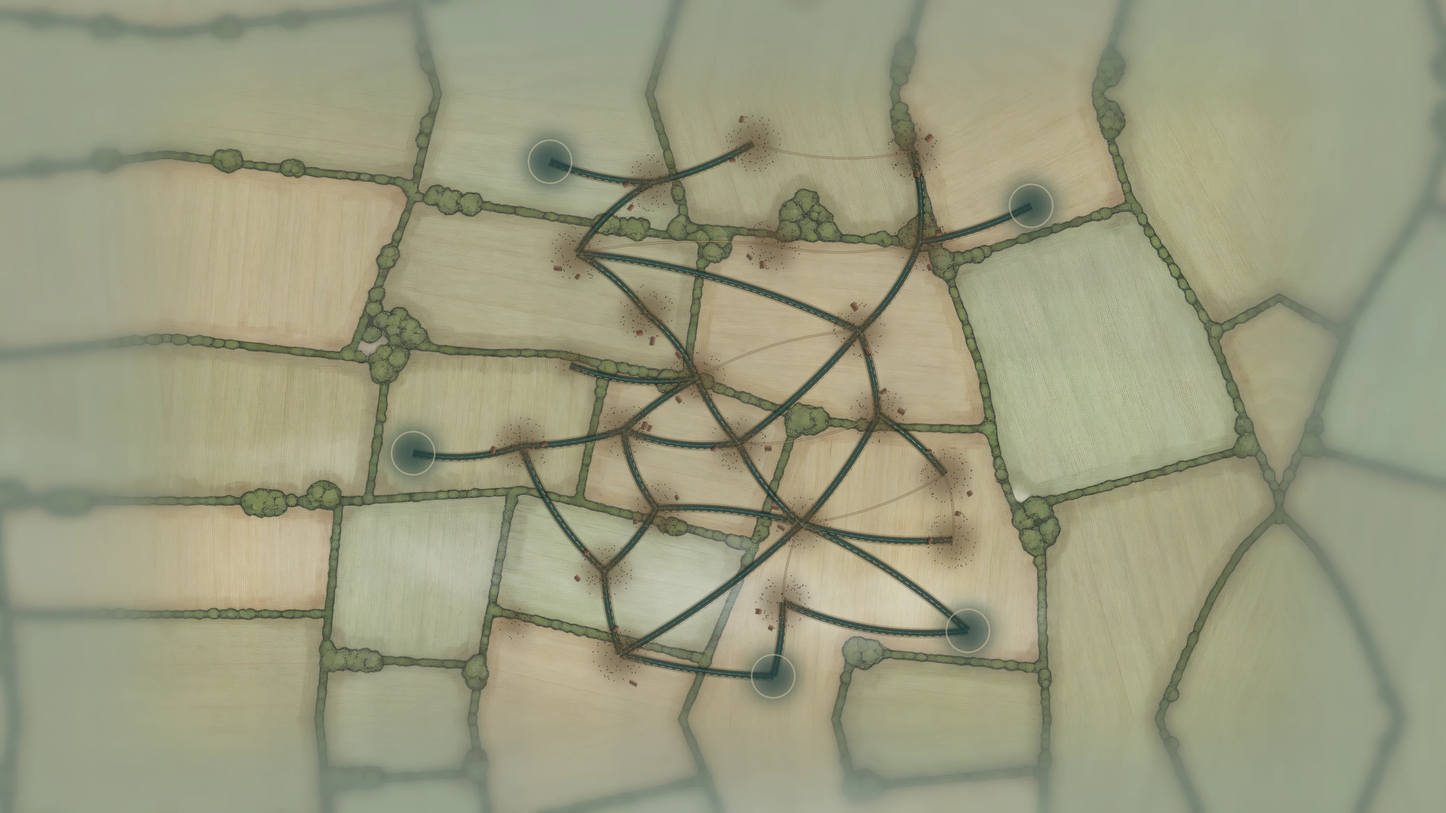
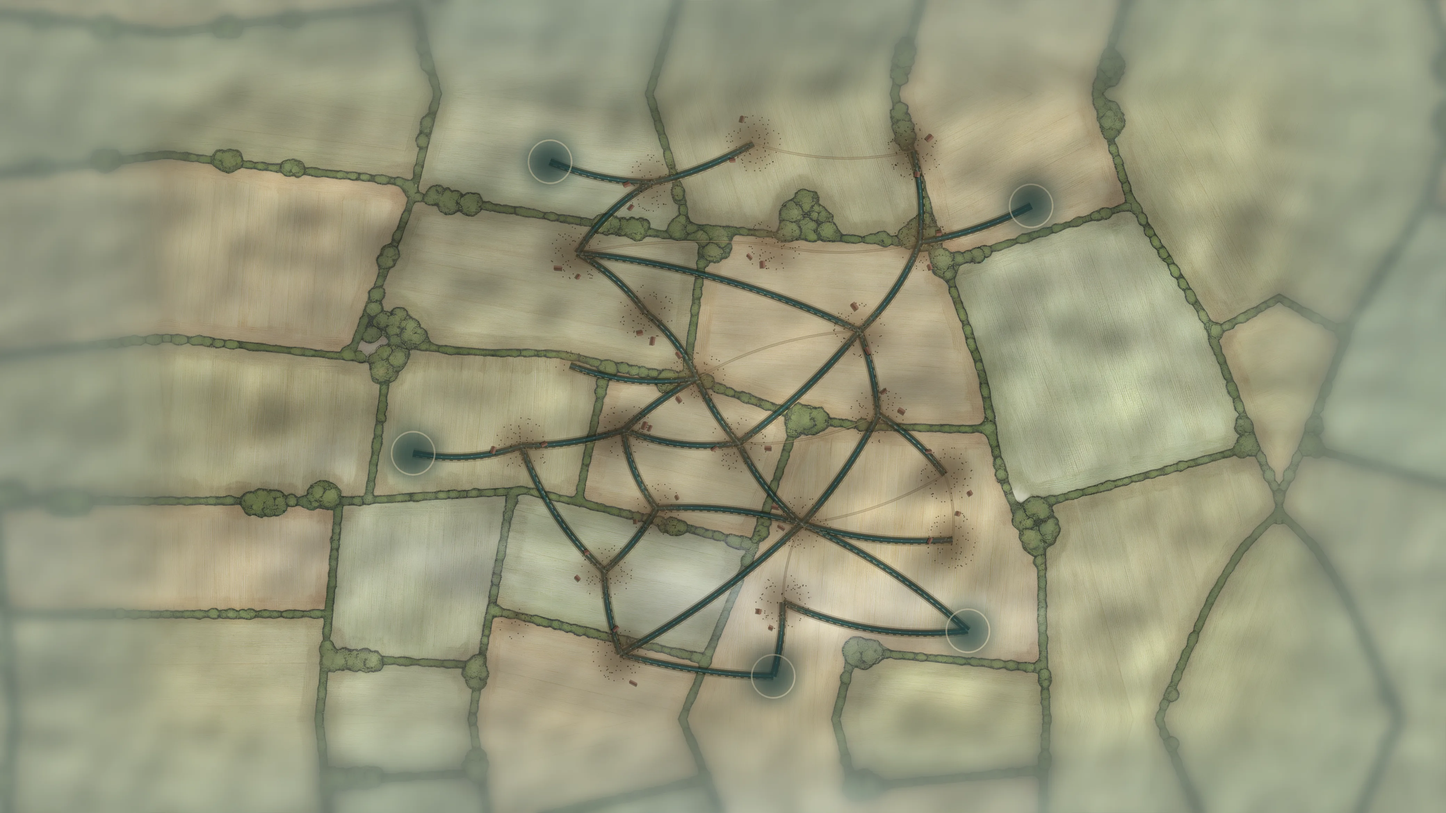
feat(board): three grounds that are not a patchwork
Every ground was a countryside seen from a plane. Three directions
tried in one pass and all three kept, each with a rail era aged from
its own canal painting: painted ridges, the terrain of a strategy board
lit as the painted tiles are, now the default; a model landscape of
sculpted hills and lichen trees; and an inked map on parchment. The
quiet country's composer gained cart tracks into every town and a
seeded relief pass applied as a multiply, soft-light having brightened
the whole sheet.

diff --git a/app/src/components/game/boardOptions.ts b/app/src/components/game/boardOptions.ts
@@ -27,7 +27,7 @@ export type IncomeSide = 'bottom' | 'left';
  *  paintings, the fully painted countryside with its canals and rails, or the
  *  same land at dusk, or the wooded country aged from one era into the next,
  *  both dark enough for the painted tiles */
-export type MapStyle = 'engraved' | 'etched' | 'painted' | 'dusk' | 'wooded' | 'ploughed' | 'quiet';
+export type MapStyle = 'ridges' | 'model' | 'inked' | 'quiet' | 'engraved' | 'etched' | 'painted' | 'dusk' | 'wooded' | 'ploughed';
 export const MAP_URL: Record<MapStyle, { canal: string; rail: string }> = {
   engraved: { canal: '/map-engraved-canal.webp', rail: '/map-engraved-rail.webp' },
   etched: { canal: '/map-era-canal.webp', rail: '/map-era-rail.webp' },
@@ -49,6 +49,18 @@ export const MAP_URL: Record<MapStyle, { canal: string; rail: string }> = {
      hedgerows, a breath of mist in the hollows. Light enough that the
      painted tiles and their places read as the brightest things on it */
   quiet: { canal: '/map-calm-canal.webp', rail: '/map-calm-rail.webp' },
+  /* three grounds that are not a patchwork of fields seen from a plane.
+     Painted ridges: the terrain of a strategy board, long diagonal ridges,
+     rock on the high ground, scattered painted woods, lit from the upper
+     left as the painted tiles are — the one that speaks their language */
+  ridges: { canal: '/map-ridges-canal.webp', rail: '/map-ridges-rail.webp' },
+  /* a model landscape: sculpted plaster hills, static grass, lichen trees,
+     photographed straight down under studio light, so the whole table reads
+     as a miniature and the tiles as pieces set on it */
+  model: { canal: '/map-model-canal.webp', rail: '/map-model-rail.webp' },
+  /* an inked map: hill mounds and tiny trees drawn in sepia on parchment,
+     washed in green and ochre — the old-atlas charm, calm and legible */
+  inked: { canal: '/map-inked-canal.webp', rail: '/map-inked-rail.webp' },
 };
 /** the rail era has three paintings to choose from (etched terrain only) */
 export type RailPainting = '1' | '2' | '3';
@@ -203,7 +215,7 @@ let state: BoardOptions = {
   minimapSize: read('minimapSize', 's'),
   minimapWidth: Number(read('minimapWidth', 0 as never)) || 0,
   incomeSide: read('incomeSide', 'bottom'),
-  mapStyle: read('mapStyle', 'quiet'),
+  mapStyle: read('mapStyle', 'ridges'),
   railPainting: read('railPainting', '2'),
   traffic: read('traffic', 'light'),
   beginnerAid: read('beginnerAid', false),

diff --git a/app/src/i18n/de/game.ts b/app/src/i18n/de/game.ts
@@ -169,7 +169,7 @@ const game: typeof engame = {
     side: { bottom: 'Unten', left: 'Links' },
     mapStyle: 'Kartenhintergrund',
     mapStyleHint: 'Eine gestochene Karte der Zeit, das gravierte Gelände mit seinen Gemälden, die gemalte Landschaft mit ihren Kanälen oder dasselbe Land in der Dämmerung, für die gemalten Plättchen.',
-    map: { engraved: 'Gestochene Karte', etched: 'Graviertes Gelände', painted: 'Gemalte Kanäle', dusk: 'Dunkles Land', wooded: 'Bewaldetes Land', ploughed: 'Gepflügtes Land', quiet: 'Stilles Land' },
+    map: { engraved: 'Gestochene Karte', etched: 'Graviertes Gelände', painted: 'Gemalte Kanäle', dusk: 'Dunkles Land', wooded: 'Bewaldetes Land', ploughed: 'Gepflügtes Land', quiet: 'Stilles Land', ridges: 'Gemalte Kämme', model: 'Modellbau', inked: 'Tuschkarte' },
     railPainting: 'Gemälde der Eisenbahnzeit',
     railPaintingHint: 'Drei Gemälde für die zweite Zeit; die Schienen sind auf jedem eingraviert.',
     railPaint: 'Gemälde {n}',

diff --git a/app/src/i18n/es/game.ts b/app/src/i18n/es/game.ts
@@ -169,7 +169,7 @@ const game: typeof engame = {
     side: { bottom: 'Abajo', left: 'A la izquierda' },
     mapStyle: 'Fondo del mapa',
     mapStyleHint: 'Un mapa grabado de época, el terreno grabado con sus cuadros, la campiña pintada con sus canales, o la misma tierra al anochecer, para las fichas pintadas.',
-    map: { engraved: 'Mapa grabado', etched: 'Terreno grabado', painted: 'Canales pintados', dusk: 'Tierra oscura', wooded: 'Tierras boscosas', ploughed: 'Tierras aradas', quiet: 'Campiña serena' },
+    map: { engraved: 'Mapa grabado', etched: 'Terreno grabado', painted: 'Canales pintados', dusk: 'Tierra oscura', wooded: 'Tierras boscosas', ploughed: 'Tierras aradas', quiet: 'Campiña serena', ridges: 'Crestas pintadas', model: 'Maqueta', inked: 'Mapa a tinta' },
     railPainting: 'Pintura de la era del ferrocarril',
     railPaintingHint: 'Tres cuadros para la segunda era; las vías van grabadas en cada uno.',
     railPaint: 'Cuadro {n}',

diff --git a/app/src/i18n/fr/game.ts b/app/src/i18n/fr/game.ts
@@ -169,7 +169,7 @@ const fr: typeof engame = {
     side: { bottom: 'En bas', left: 'À gauche' },
     mapStyle: 'Fond de carte',
     mapStyleHint: 'Une carte gravée d’époque, le terrain gravé avec ses tableaux, la campagne peinte avec ses canaux, ou la même terre au crépuscule, pour les tuiles peintes.',
-    map: { engraved: 'Carte gravée', etched: 'Terrain gravé', painted: 'Canaux peints', dusk: 'Terre sombre', wooded: 'Terres boisées', ploughed: 'Terres labourées', quiet: 'Campagne paisible' },
+    map: { engraved: 'Carte gravée', etched: 'Terrain gravé', painted: 'Canaux peints', dusk: 'Terre sombre', wooded: 'Terres boisées', ploughed: 'Terres labourées', quiet: 'Campagne paisible', ridges: 'Crêtes peintes', model: 'Maquette', inked: 'Carte à l’encre' },
     railPainting: 'Peinture de l’ère rail',
     railPaintingHint: 'Trois tableaux pour la seconde ère ; les rails sont gravés sur chacun.',
     railPaint: 'Tableau {n}',

diff --git a/app/src/i18n/en/game.ts b/app/src/i18n/en/game.ts
@@ -167,7 +167,7 @@ const game = {
     side: { bottom: 'Bottom', left: 'Left' },
     mapStyle: 'Map painting',
     mapStyleHint: 'A period engraved map, the etched terrain with its paintings, the painted countryside with its canals, or the same land at dusk, for the painted tiles.',
-    map: { engraved: 'Engraved map', etched: 'Etched terrain', painted: 'Painted canals', dusk: 'Dark land', wooded: 'Wooded land', ploughed: 'Ploughed land', quiet: 'Quiet country' },
+    map: { engraved: 'Engraved map', etched: 'Etched terrain', painted: 'Painted canals', dusk: 'Dark land', wooded: 'Wooded land', ploughed: 'Ploughed land', quiet: 'Quiet country', ridges: 'Painted ridges', model: 'Model landscape', inked: 'Inked map' },
     railPainting: 'Rail-era painting',
     railPaintingHint: 'Three paintings for the second era; the rails are engraved on each.',
     railPaint: 'Painting {n}',

diff --git a/app/src/components/game/BoardSettings.tsx b/app/src/components/game/BoardSettings.tsx
@@ -505,7 +505,7 @@ export default function BoardSettings() {
                       <Segmented<MapStyle>
                         value={opts.mapStyle}
                         onChange={(v) => setBoardOption('mapStyle', v)}
-                        options={(['quiet', 'engraved', 'etched', 'painted', 'dusk', 'wooded', 'ploughed'] as MapStyle[]).map((id) => ({ id, label: t(`game.settings.map.${id}`) }))}
+                        options={(['ridges', 'model', 'inked', 'quiet', 'engraved', 'etched', 'painted', 'dusk', 'wooded', 'ploughed'] as MapStyle[]).map((id) => ({ id, label: t(`game.settings.map.${id}`) }))}
                       />
                     </OptionRow>
                     {opts.mapStyle === 'etched' && (

diff --git a/tools/map/README.md b/tools/map/README.md
@@ -130,6 +130,34 @@ own geometry — `node /tmp/geo.mjs /tmp/geo-veneto.json veneto`. Its five
 merchant houses were repainted from the Oxford plate, keeping the frame,
 the brass disc and the nameplate. Sources in `tools/assets/map/houses/`.
 
+## Three grounds that are not a patchwork
+
+Every ground above is a countryside seen from a plane: fields, hedges,
+copses. Asked for something else, three directions were tried in one pass
+and all three kept, each with a rail era aged from its own canal painting
+by `fal-ai/nano-banana/edit`, upscaled three times, composed with the
+geometry, RELIEF=0 (they carry their own):
+
+- **Crêtes peintes** (`map-ridges-*`, the default): the terrain of a
+  strategy board — long diagonal ridges, rock on the high ground,
+  scattered painted woods, lit from the upper left as the painted tiles
+  are. The one that speaks their language. Asked with "no grid of fields,
+  no repetition, no symmetry"; the first take tiled four identical islands.
+- **Maquette** (`map-model-*`): sculpted plaster hills, static grass,
+  lichen trees, photographed straight down — the table reads as a
+  miniature and the tiles as pieces set on it. Dark; composed LIT=1.
+- **Carte à l'encre** (`map-inked-*`): hill mounds and tiny trees in
+  sepia on parchment, washed green and ochre. Old-atlas charm.
+
+Sources in `tools/assets/map/map-{ridges,model,inked}-{canal,rail}-fal.jpg`.
+
+The quiet country's composer meanwhile gained cart tracks converging on
+every town (`lane.txt`), a wider cleared ground under each, and a relief
+pass: a seeded plasma height field lit from the upper left, applied as
+2·shade·land so a map centred at a half leaves the tone alone. Soft-light
+was tried first and brightened the whole sheet — ImageMagick's formula is
+not the one painters mean.
+
 ## The engraved map
 
 The board's default ground is no painting at all: a period engraved map,
